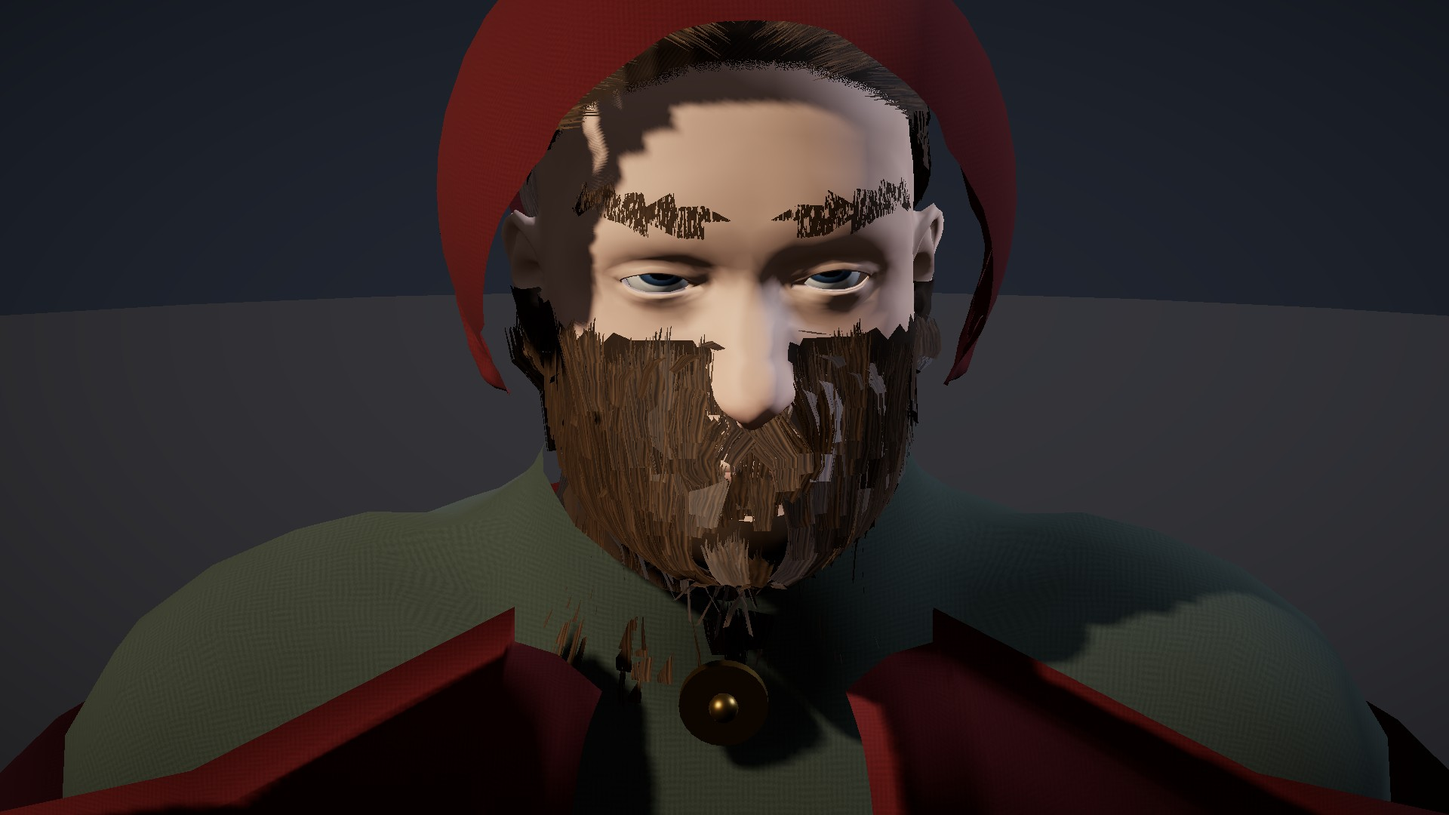
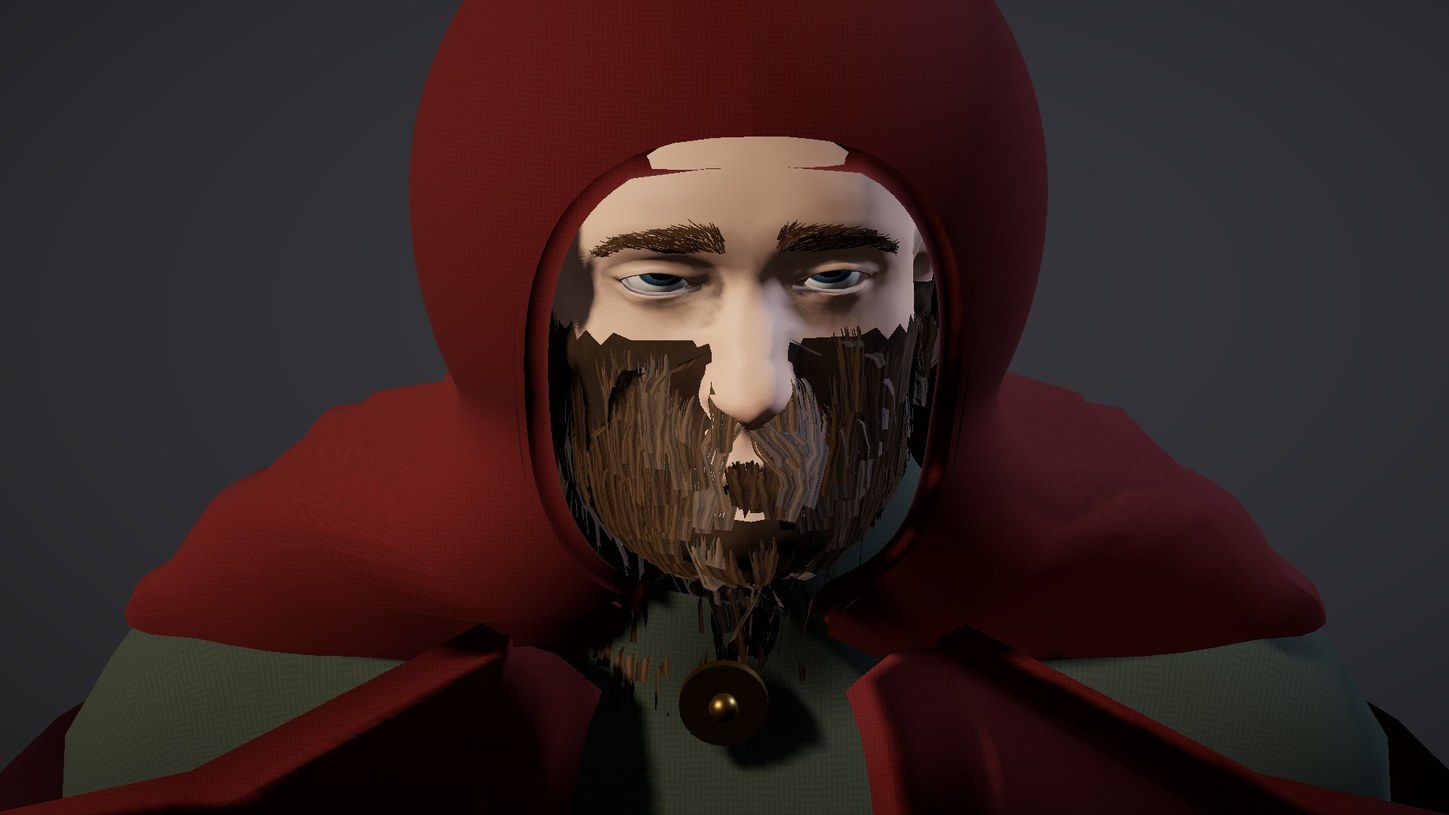
Carry the builder's state from auto/backlog (Sessions 823, 824, 826: the hood, the brows, brows by people) onto auto/bodies, which owns the builder since the 2.0 team
The files are byte-identical to origin/auto/backlog's, so the two branches merge cleanly.

Claude-Session: https://claude.ai/code/session_01DL4nJ7XktKf2P5WKDPzPBE

diff --git a/docs/prototypes/levelup/people.js b/docs/prototypes/levelup/people.js
@@ -36,7 +36,6 @@ export async function loadPack(base = 'mh/') {
     apron: sel(G['helper-skirt'], (x, y, z) => z > .015 && Math.abs(x) < .2 && y > -.6),
     apronBib: sel(tri, (x, y, z) => z > .03 && Math.abs(x) < .14 && y > .08 && y < .5),
     hood: sel(G['body'], (x, y, z) => y > .6 && !(z > .03 && (x / .06) ** 2 + ((y - .71) / .085) ** 2 < 1)),
-    brows: sel(G['body'], (x, y, z) => y > .748 && y < .757 && z > .1 && Math.abs(x) > .012 && Math.abs(x) < .055),
   };
   return PACK;
 }
@@ -64,8 +63,8 @@ function clothMat(color, kind = 'wool', o = {}) {
   const m = new THREE.MeshStandardMaterial({ color, roughness: o.rough ?? (kind === 'leather' ? .62 : .95), metalness: 0, side: o.side ?? THREE.FrontSide });
   m.onBeforeCompile = s => { s.uniforms.tW = { value: TEXW[kind] };
     s.vertexShader = 'attribute vec3 aBase; varying vec3 vB; varying vec3 vRP; varying vec3 vRN;\n' + s.vertexShader.replace('#include <begin_vertex>', '#include <begin_vertex>\n vRP = position; vRN = normal; vB = aBase;');
-    s.fragmentShader = 'uniform sampler2D tW; varying vec3 vB;\n' + TRI + s.fragmentShader.replace('vec4 diffuseColor = vec4( diffuse, opacity );', CUT(o.cut) + (o.hole ? `if (${o.hole}) discard;` : '') + `vec4 diffuseColor = vec4( diffuse * triTex(tW, ${(o.scale ?? (kind === 'leather' ? 9 : 22)).toFixed(1)}), opacity );`); };
-  m.customProgramCacheKey = () => 'cloth' + kind + JSON.stringify(o.cut || 0) + (o.scale || 0) + (o.hole || '');
+    s.fragmentShader = 'uniform sampler2D tW; varying vec3 vB;\n' + TRI + s.fragmentShader.replace('vec4 diffuseColor = vec4( diffuse, opacity );', CUT(o.cut) + (o.hole ? `if (${o.hole}) discard;` : '') + `vec4 diffuseColor = vec4( diffuse * triTex(tW, ${(o.scale ?? (kind === 'leather' ? 9 : 22)).toFixed(1)})${o.inner ? ` * (gl_FrontFacing ? 1. : ${o.inner.toFixed(2)})` : ''}, opacity );`); };
+  m.customProgramCacheKey = () => 'cloth' + kind + JSON.stringify(o.cut || 0) + (o.scale || 0) + (o.hole || '') + (o.inner || '');
   return m;
 }
 // fur and hair: stacked shells, each cut by noise so strands rise from the surface
@@ -354,8 +353,135 @@ function buildCloak(G, body, byName, rnd) {
   return { meshes: out, stats: { columns: K, rows: R, tris: idx.length / 3, minClear: +minClear.toFixed(4), under, brooch: +br.position.distanceTo(neck).toFixed(3) } };
 }
 
+// ── the hood up (Session 823, Michael's note on #274: "the hood is semi-transparent") ──
+// Session 805 set the head's own points out onto a ball: the face hole ran back to the ears, so the sides of the head
+// showed through it, the ear's folds came out as a red lump, and the ball stopped at the skull, the nape bare under it.
+// Now the hood is a cowl of its own: a dome round the head, the ears and the tucked hair, which falls to a hem lying on
+// the shoulders over the cloak. The face is cut out of it in front only, from the brow to the throat, edged with a
+// rolled hem, and its inside is shaded darker, so it reads as cloth with a thickness. It is skinned to the nearest
+// points of the body (the head's above, the neck's and shoulders' below), so it turns with the head.
+function buildHoodUp(P, G, meshes) {
+  const R0 = PACK.rest, body = PACK.G['body'], D = G.dress, pt = i => new THREE.Vector3(P[i * 3], P[i * 3 + 1], P[i * 3 + 2]);
+  const box = f => { const b = new THREE.Box3(); for (const i of new Set(body)) if (f(R0[i * 3], R0[i * 3 + 1], R0[i * 3 + 2])) b.expandByPoint(pt(i)); return b; };
+  const head = box((x, y) => y > .66), brow = box((x, y, z) => z > .1 && y > .74 && y < .76), chin = box((x, y, z) => z > .08 && y < .66 && y > .6 && Math.abs(x) < .02);
+  const neck = box((x, y) => y > .58 && y < .62 && Math.abs(x) < .08), sh = box((x, y) => Math.abs(x) > .14 && Math.abs(x) < .19 && y > .4 && y < .62);
+  const c = head.getCenter(new THREE.Vector3()), hs = head.getSize(new THREE.Vector3()).multiplyScalar(.5), cn = neck.getCenter(new THREE.Vector3());
+  // the dome's radii: round the ears at the sides, over the hair on top and behind, open in front of the face
+  let rx = hs.x + .028, ryT = hs.y + .03, rzB = c.z - head.min.z + .04, rzF = hs.z * .85, ryB = c.y - chin.min.y;
+  // and round the hair, wherever it is not in the face's opening
+  const hairM = meshes.filter(m => m.name === 'hair' || m.name === 'scalp');
+  const yTop = brow.max.y + .022, yChin = chin.min.y - .012, ox = brow.max.x + .02, yM = (yTop + yChin) / 2, hy = (yTop - yChin) / 2;
+  // where the face is open: an oval from the brow to under the chin, and a slot below it to the throat
+  const openS = q => { const u = Math.abs(q.x - c.x), y = q.y, sO = ((u / ox) ** 2.6 + (Math.abs(y - yM) / hy) ** 2.6) ** (1 / 2.6); return y < yM ? Math.min(sO, u / (ox * .5)) : sO; };
+  { let k = 1; const v = new THREE.Vector3(); for (const m of hairM) { const a = m.geometry.attributes.position; for (let i = 0; i < a.count; i++) { v.fromBufferAttribute(a, i); if (v.z > c.z && openS(v) < 1.15) continue; v.sub(c); if (v.y < -ryB * .6) continue; k = Math.max(k, Math.hypot(v.x / rx, v.y / (v.y > 0 ? ryT : ryB), v.z / (v.z > 0 ? rzF : rzB)) + .02); } }
+    k = Math.min(k, 1.35); rx *= k; ryT *= k; rzB *= k; }
+  // in front, over the brow and round the cheeks, the dome comes forward until the head's points that are not in the opening are inside it, 8 mm clear
+  for (const i of new Set(body)) { if (R0[i * 3 + 1] < .6) continue; const q = pt(i), d = q.clone().sub(c); if (d.z <= 0 || d.y < -ryB * .5 || openS(q) < 1) continue;
+    const rest = 1 - (d.x / rx) ** 2 - (d.y / (d.y > 0 ? ryT : ryB)) ** 2; rzF = Math.max(rzF, rest > .05 ? (d.z + .008) / Math.sqrt(rest) : rzF); }
+  // and what is still outside (a point at the side of the brow, the scalp's edge) widens the dome all round
+  { let k = 1; const v = new THREE.Vector3(), fit = q => { if (q.z > c.z && openS(q) < 1) return; const d = q.clone().sub(c); if (d.y < -ryB * .5) return; k = Math.max(k, Math.hypot(d.x / rx, d.y / (d.y > 0 ? ryT : ryB), d.z / (d.z > 0 ? rzF : rzB)) * 1.01); };
+    for (const i of new Set(body)) if (R0[i * 3 + 1] > .6) fit(pt(i)); for (const m of hairM) { const a = m.geometry.attributes.position; for (let i = 0; i < a.count; i++) fit(v.fromBufferAttribute(a, i)); }
+    rx *= k; ryT *= k; rzF *= k; rzB *= k; }
+  // the hem lies on the shoulders and the upper back: at each angle round the neck, the body's height there, and clear of the cloak
+  const J = 56, I = 64, th0 = 2.05, pos = [], base = [], uv = [], idx = [];
+  const hx = (sh.max.x - cn.x) * .82, hzB = cn.z - sh.min.z + .01, hzF = sh.max.z - cn.z, clr = D.mantle ? .095 : .04;
+  const yAt = (x, z) => { let y = -1e9; for (const i of new Set(body)) { const ry = R0[i * 3 + 1]; if (ry < .3 || ry > .62) continue; if ((P[i * 3] - x) ** 2 + (P[i * 3 + 2] - z) ** 2 < .022 ** 2) y = Math.max(y, P[i * 3 + 1]); } return y; };
+  const yHem0 = sh.max.y + clr;
+  // the grid: J columns round the head (0 = the front), I rows from the crown to the hem
+  const dome = (ph, th) => { const sx = Math.sin(th) * Math.sin(ph), sy = Math.cos(th), sz = Math.sin(th) * Math.cos(ph), peak = .025 * Math.max(0, -sz * .7 + sy * .7) ** 3;
+    return new THREE.Vector3(c.x + sx * rx, c.y + sy * (sy > 0 ? ryT : ryB) + peak * .6, c.z + sz * (sz > 0 ? rzF : rzB) - peak); };
+  const hemXZ = ph => [cn.x + Math.sin(ph) * hx, cn.z + Math.cos(ph) * (Math.cos(ph) > 0 ? hzF : hzB)];
+  let hy0 = []; for (let j = 0; j < J; j++) { const [x, z] = hemXZ(j / J * Math.PI * 2), y = yAt(x, z); hy0.push(y > -1e8 ? Math.min(y + clr, yHem0) : yHem0); }
+  for (let it = 0; it < 4; it++) hy0 = hy0.map((y, j) => (hy0[(j + J - 1) % J] + 2 * y + hy0[(j + 1) % J]) / 4);
+  const hem = (ph, j) => { const [x, z] = hemXZ(ph); return new THREE.Vector3(x, hy0[j % J], z); };
+  // behind, the hood leaves the dome sooner and falls down the nape, so it does not sit on the neck as a ball
+  const at = (ph, v, j) => { const vd = .62, t0 = th0 - .5 * Math.max(0, -Math.cos(ph)) ** 1.5; if (v <= vd) return dome(ph, t0 * Math.sqrt(v / vd));
+    const a = dome(ph, t0), b = hem(ph, j), t = (v - vd) / (1 - vd), L = a.distanceTo(b), Ta = dome(ph, t0 + .01).sub(a).normalize().multiplyScalar(L * .9), Tb = b.clone().sub(a);
+    return a.clone().multiplyScalar(2 * t ** 3 - 3 * t * t + 1).addScaledVector(Ta, t ** 3 - 2 * t * t + t).addScaledVector(b, -2 * t ** 3 + 3 * t * t).addScaledVector(Tb, t ** 3 - t * t); };
+  const front = (q, ph) => Math.cos(ph) > 0 && q.z > c.z;
+  for (let i = 0; i <= I; i++) for (let j = 0; j <= J; j++) { const ph = j / J * Math.PI * 2, q = at(ph, i / I, j); pos.push(q.x, q.y, q.z); base.push(front(q, ph) ? openS(q) : 9, 0, Math.cos(ph)); uv.push(j / J, i / I); }
+  for (let i = 0; i < I; i++) for (let j = 0; j < J; j++) { const a = i * (J + 1) + j, b = a + J + 1; idx.push(a, b, a + 1, a + 1, b, b + 1); }
+  const g = new THREE.BufferGeometry(); g.setAttribute('position', new THREE.Float32BufferAttribute(pos, 3)); g.setAttribute('aBase', new THREE.Float32BufferAttribute(base, 3)); g.setAttribute('uv', new THREE.Float32BufferAttribute(uv, 2)); g.setIndex(idx); g.computeVertexNormals();
+  // the rolled hem round the face: where each row crosses the opening's edge, up the left cheek and down the right
+  const left = [], right = []; for (let i = 0; i <= I; i++) { const row = []; for (let j = 0; j <= J; j++) { const k = (i * (J + 1) + j) * 3; row.push([base[k], new THREE.Vector3(pos[k], pos[k + 1], pos[k + 2])]); }
+    for (let j = 0; j < J; j++) { const [s0, p0] = row[j], [s1, p1] = row[j + 1]; if ((s0 < 1) !== (s1 < 1) && Math.min(s0, s1) < 9 && Math.max(s0, s1) < 9) { const q = p0.clone().lerp(p1, (1 - s0) / (s1 - s0)); (q.x > c.x ? right : left).push(q); } } }
+  const rimLine = [...left.reverse(), ...right].map(q => q.clone().add(new THREE.Vector3(c.x - q.x, 0, c.z - q.z).normalize().multiplyScalar(.004)));
+  const sm = rimLine.map((q, k) => k && k < rimLine.length - 1 ? q.clone().add(rimLine[k - 1]).add(rimLine[k + 1]).multiplyScalar(1 / 3) : q);
+  const rim = tubeGeom(sm, sm.map(() => .0075), 8);
+  // skin weights from the nearest point of the body
+  const cand = [...new Set(body)].filter(i => R0[i * 3 + 1] > .4);
+  const skin = geo => { const n = geo.attributes.position.count, si = new Uint16Array(n * 4), sw = new Float32Array(n * 4), v = new THREE.Vector3();
+    for (let i = 0; i < n; i++) { v.fromBufferAttribute(geo.attributes.position, i); let best = -1, bd = 1e9; for (const k of cand) { const d = (P[k * 3] - v.x) ** 2 + (P[k * 3 + 1] - v.y) ** 2 + (P[k * 3 + 2] - v.z) ** 2; if (d < bd) { bd = d; best = k; } }
+      for (let q = 0; q < 4; q++) { si[i * 4 + q] = PACK.skinIndex[best * 4 + q]; sw[i * 4 + q] = PACK.skinWeight[best * 4 + q]; } }
+    geo.setAttribute('skinIndex', new THREE.BufferAttribute(si, 4)); geo.setAttribute('skinWeight', new THREE.BufferAttribute(sw, 4)); return geo; };
+  if (!rim.attributes.aBase) rim.setAttribute('aBase', rim.attributes.position);
+  const col = sRGB(...D.cloak), hood = new THREE.SkinnedMesh(skin(g), clothMat(col, 'wool', { side: THREE.DoubleSide, scale: 26, inner: .42, hole: 'vB.z > 0. && vB.x < 1.' })); hood.name = 'hoodUp';
+  const hemM = new THREE.SkinnedMesh(skin(rim), clothMat(col.clone().multiplyScalar(.9), 'wool', { scale: 26 })); hemM.name = 'hoodHem';
+  // what would show through: any point of the head, the ears or the scalp's hair outside the dome, away from the face's opening
+  let tested = 0, poke = 0; { const v = new THREE.Vector3(), test = q => { if (q.y < c.y - ryB * .5) return; tested++; if (q.z > c.z && openS(q) < 1) return;
+      const d = q.clone().sub(c); if (Math.hypot(d.x / rx, d.y / (d.y > 0 ? ryT : ryB), d.z / (d.z > 0 ? rzF : rzB)) >= 1) poke++; };
+    for (const i of new Set(body)) if (R0[i * 3 + 1] > .6) test(pt(i)); for (const m of hairM) { const a = m.geometry.attributes.position; for (let i = 0; i < a.count; i++) test(v.fromBufferAttribute(a, i)); } }
+  return { meshes: [hood, hemM], stats: { tested, poke, tris: idx.length / 3 + rim.index.count / 3, rimPoints: sm.length, k: +(rx / (hs.x + .028)).toFixed(3), yHem: +yHem0.toFixed(3) } };
+}
+
+// ── the eyebrows (Session 824, Michael's note on #272: "eyebrows look pretty fugly still") ──
+// Session 770's brows were a band of the skin's triangles under three noise shells: square-ended blocks, the same
+// thickness end to end, a hand's width too high. Now a brow is drawn on the face as a shape (a head at the nose, an
+// arch two-thirds out, a tail that thins to nothing), set from the eye's own centre, and filled with short hairs
+// lying on the skin, combed as brows grow: up at the head, out along the body, out and down at the tail. The skin
+// under it is a shade darker so the hairs read as a brow and not as a scatter. Placed on the unmorphed face and carried
+// to the morphed one by the triangle each root falls in, so it follows every face the sliders make.
+const BROW_TRIS = () => PACK.browTris || (PACK.browTris = (() => { const R0 = PACK.rest, g = PACK.G['body'], out = [];
+  for (let t = 0; t < g.length; t += 3) { const a = g[t], b = g[t + 1], c = g[t + 2], cy = (R0[a * 3 + 1] + R0[b * 3 + 1] + R0[c * 3 + 1]) / 3, cz = (R0[a * 3 + 2] + R0[b * 3 + 2] + R0[c * 3 + 2]) / 3, cx = (R0[a * 3] + R0[b * 3] + R0[c * 3]) / 3;
+    if (cy < .72 || cy > .79 || cz < .06 || Math.abs(cx) > .085) continue;
+    const ux = R0[b * 3] - R0[a * 3], uy = R0[b * 3 + 1] - R0[a * 3 + 1], uz = R0[b * 3 + 2] - R0[a * 3 + 2], vx = R0[c * 3] - R0[a * 3], vy = R0[c * 3 + 1] - R0[a * 3 + 1], vz = R0[c * 3 + 2] - R0[a * 3 + 2];
+    const nz = ux * vy - uy * vx, nl = Math.hypot(uy * vz - uz * vy, uz * vx - ux * vz, nz); if (Math.abs(nz) / nl > .25) out.push(a, b, c); } return out; })());
+export function browShape(G) {
+  // in the unmorphed face's x and y: per side, t from the head (0) to the tail (1)
+  const R0 = PACK.rest, eye = side => { const L = [...new Set(PACK.G[`helper-${side}-eye`])]; let x = 0, y = 0; for (const i of L) { x += R0[i * 3]; y += R0[i * 3 + 1]; } return [Math.abs(x / L.length), y / L.length]; };
+  const [ex, ey] = eye('l'), man = (G.g ?? .5) > .5, b = G.brow || {}, thick = (b.thick ?? (man ? .62 : .42)), arch = (b.arch ?? (man ? .35 : .6));
+  const x0 = ex * .32, x1 = ex * 1.62, at = t => { const x = x0 + (x1 - x0) * t;
+    // the lower edge follows the orbit's rim: it rises from the head to the arch and drops a little to the tail
+    const low = ey + .0125 + .0035 * arch * Math.sin(Math.PI * Math.min(1, t / .7) * .5) - .004 * Math.max(0, (t - .7) / .3) ** 1.5 * (1 + arch);
+    const h = (.0035 + .0065 * thick) * (t < .15 ? .75 + 1.7 * t : 1 - .85 * Math.max(0, (t - .3) / .7) ** 1.3);
+    return { x, low, h }; };
+  return { x0, x1, at, ex, ey, thick, arch };
+}
+function buildBrows(P, G, headB) {
+  const R0 = PACK.rest, tris = BROW_TRIS(), S = browShape(G), out = { tried: 0, roots: 0, lift: 0 };
+  // where a point of the unmorphed face (x, y) lies: its triangle and weights, then the same on the morphed face
+  const locate = (x, y) => { for (let t = 0; t < tris.length; t += 3) { const a = tris[t], b = tris[t + 1], c = tris[t + 2], ax = R0[a * 3], ay = R0[a * 3 + 1], bx = R0[b * 3], by = R0[b * 3 + 1], cx = R0[c * 3], cy = R0[c * 3 + 1];
+      const d = (by - cy) * (ax - cx) + (cx - bx) * (ay - cy); if (Math.abs(d) < 1e-12) continue; const u = ((by - cy) * (x - cx) + (cx - bx) * (y - cy)) / d, v = ((cy - ay) * (x - cx) + (ax - cx) * (y - cy)) / d, w = 1 - u - v;
+      if (u < -1e-4 || v < -1e-4 || w < -1e-4) continue; const A = new THREE.Vector3().fromArray(P, a * 3), B = new THREE.Vector3().fromArray(P, b * 3), C = new THREE.Vector3().fromArray(P, c * 3);
+      return { p: A.clone().multiplyScalar(u).addScaledVector(B, v).addScaledVector(C, w), n: B.clone().sub(A).cross(C.clone().sub(A)).normalize() }; } return null; };
+  const pos = [], uv = [], idx = [], nor = [], col = sRGB(...G.hairCol).multiplyScalar(G.hairCol[0] > .6 ? .55 : .62);
+  const N = Math.round(260 + 220 * S.thick);
+  for (const sg of [-1, 1]) for (let k = 0; k < N; k++) {
+    // a root: along the brow by area (more at the head and the body than the tail), across it at random
+    const t = Math.min(1, RND() ** 1.15), q = S.at(t), a = RND(), x = q.x + (RND() - .5) * .002, y = q.low + q.h * a;
+    const L = locate(sg * x, y); out.tried++; if (!L) continue; out.roots++;
+    if (L.n.z < 0) L.n.negate();
+    // the comb: up at the head, out and a little up along the body, out and down at the tail; the upper row lies down over the lower
+    const up = t < .18 ? .95 - 2.8 * t : .45 - 1.1 * Math.max(0, t - .45) - .35 * a, dirW = new THREE.Vector3(sg * (t < .18 ? .35 + 3 * t : 1), up, 0).normalize();
+    dirW.applyAxisAngle(new THREE.Vector3(0, 0, 1), (RND() - .5) * .45);
+    const tan = dirW.clone().addScaledVector(L.n, -dirW.dot(L.n)).normalize(), len = (.004 + .005 * RND()) * (t < .15 ? .75 : 1), w0 = .00028 + .00018 * RND(), seg = 3;
+    const pts = [L.p.clone().addScaledVector(L.n, .0003)]; let lift = .28;
+    for (let s = 1; s <= seg; s++) { const d = tan.clone().addScaledVector(L.n, lift).normalize(); pts.push(pts[s - 1].clone().addScaledVector(d, len / seg)); lift -= .22; }
+    out.lift = Math.max(out.lift, pts[seg].clone().sub(pts[0]).dot(L.n));
+    const base = pos.length / 3; for (let s = 0; s <= seg; s++) { const side = tan.clone().cross(L.n).normalize(), w = w0 * (1 - .6 * s / seg);
+      pos.push(pts[s].x - side.x * w, pts[s].y - side.y * w, pts[s].z - side.z * w, pts[s].x + side.x * w, pts[s].y + side.y * w, pts[s].z + side.z * w); nor.push(L.n.x, L.n.y, L.n.z, L.n.x, L.n.y, L.n.z); uv.push(0, s / seg * .9, 1, s / seg * .9); if (s < seg) { const b0 = base + s * 2; idx.push(b0, b0 + 1, b0 + 2, b0 + 1, b0 + 3, b0 + 2); } } }
+  const g = new THREE.BufferGeometry(); g.setAttribute('position', new THREE.Float32BufferAttribute(pos, 3)); g.setAttribute('uv', new THREE.Float32BufferAttribute(uv, 2)); g.setAttribute('normal', new THREE.Float32BufferAttribute(nor, 3)); g.setIndex(idx);
+  const nV = pos.length / 3, si = new Uint16Array(nV * 4), sw = new Float32Array(nV * 4); for (let i = 0; i < nV; i++) { si[i * 4] = headB; sw[i * 4] = 1; } g.setAttribute('skinIndex', new THREE.BufferAttribute(si, 4)); g.setAttribute('skinWeight', new THREE.BufferAttribute(sw, 4));
+  const m = new THREE.MeshStandardMaterial({ color: col, roughness: .7, side: THREE.DoubleSide }); m.onBeforeCompile = sh => { sh.fragmentShader = sh.fragmentShader.replace('#include <normal_fragment_begin>', '#include <normal_fragment_begin>\n normal = normalize(vNormal); if (dot(normal, vViewPosition) < 0.) normal = -normal;'); };
+  const mesh = new THREE.SkinnedMesh(g, m); mesh.name = 'brows'; mesh.noCast = true;
+  return { mesh, stats: { hairs: idx.length / 18, tried: out.tried, roots: out.roots, lift: +out.lift.toFixed(4), tris: idx.length / 3 } };
+}
+// how much of a brow lies over a point of the unmorphed face (0 to 1), for the skin's shade
+function browCover(S, x, y) { const ax = Math.abs(x); if (ax < S.x0 - .003 || ax > S.x1 + .003) return 0; const t = Math.max(0, Math.min(1, (ax - S.x0) / (S.x1 - S.x0))), q = S.at(t);
+  const m = Math.min(y - q.low, q.low + q.h - y), e = Math.min(ax - S.x0, S.x1 - ax); return Math.max(0, Math.min(1, (m + .0015) / .003)) * Math.max(0, Math.min(1, (e + .002) / .004)); }
+
 export function makePerson(G, o = {}) {
-  const P = morph(G), { ix } = PACK, rest0 = PACK.rest; RND = seeded(G.seed ?? 'person'); let hairStats = null;
+  const P = morph(G), { ix } = PACK, rest0 = PACK.rest; RND = seeded(G.seed ?? 'person'); let hairStats = null, hoodStats = null, browStats = null;
   // the feet on the ground
   let minY = 1e9; for (let i = 1; i < P.length; i += 3) if (P[i] < minY) minY = P[i];
   // the skeleton, its joints read off the morphed body
@@ -366,9 +492,10 @@ export function makePerson(G, o = {}) {
   const skeleton = new THREE.Skeleton(bones), root = new THREE.Group(), meshes = [];
   const D0 = G.dress || {}, body = new THREE.SkinnedMesh(geomFor(P, D0.tunic ? (D0.trousers || D0.skirt === 'long' ? PACK.R.bare : PACK.R.bareLegs) : PACK.G.body), skinMat(sRGB(...G.skin)));
   // skin tones by region: lips and cheeks warmer, the brow a touch darker
-  { const col = new Float32Array(PACK.N * 3); for (let i = 0; i < PACK.N; i++) { const x = rest0[i * 3], y = rest0[i * 3 + 1], z = rest0[i * 3 + 2]; let r = 1, g = 1, b = 1;
+  { const col = new Float32Array(PACK.N * 3), BS = browShape(G); for (let i = 0; i < PACK.N; i++) { const x = rest0[i * 3], y = rest0[i * 3 + 1], z = rest0[i * 3 + 2]; let r = 1, g = 1, b = 1;
       const lip = Math.exp(-((x / .022) ** 2) - ((y - .655) / .009) ** 2) * (z > .13 ? 1 : 0), cheek = Math.exp(-(((Math.abs(x) - .05) / .025) ** 2) - ((y - .69) / .02) ** 2) * (z > .07 ? 1 : 0), nose = Math.exp(-((x / .02) ** 2) - ((y - .69) / .015) ** 2) * (z > .14 ? 1 : 0);
-      r += .12 * lip + .06 * cheek + .05 * nose; g -= .14 * lip + .05 * cheek + .04 * nose; b -= .1 * lip + .04 * cheek + .03 * nose; col[i * 3] = r; col[i * 3 + 1] = g; col[i * 3 + 2] = b; }
+      r += .12 * lip + .06 * cheek + .05 * nose; g -= .14 * lip + .05 * cheek + .04 * nose; b -= .1 * lip + .04 * cheek + .03 * nose;
+      if (G.hairCol && z > .08 && y > .72 && y < .79) { const w = browCover(BS, x, y) * .2; r *= 1 - w; g *= 1 - w * 1.1; b *= 1 - w * 1.2; } col[i * 3] = r; col[i * 3 + 1] = g; col[i * 3 + 2] = b; }
     body.geometry.setAttribute('color', new THREE.BufferAttribute(col, 3)); }
   meshes.push(body);
   const D = G.dress || {}, push = (k, idx, mat, d) => { const m = new THREE.SkinnedMesh(geomFor(P, idx, d), mat); m.name = k; meshes.push(m); return m; };
@@ -380,25 +507,23 @@ export function makePerson(G, o = {}) {
   if (D.cuffs) push('cuffs', PACK.R.cuffs, clothMat(sRGB(...D.cuffs), 'wool', { cut: [-2, 2, .4] }), .02);
   if (D.apron) { const lea = !!D.apronLeather, am = clothMat(sRGB(...D.apron), lea ? 'leather' : 'wool', { side: THREE.DoubleSide, cut: [lea ? -.52 : -.42, .175, .155, .004] });
     push('apron', PACK.R.apron, am, (x, y) => .03 + .012 * Math.max(0, Math.min(1, (.1 - y) / .4))); if (D.bib) push('bib', PACK.R.apronBib, clothMat(sRGB(...D.apron), lea ? 'leather' : 'wool', { side: THREE.DoubleSide, cut: [.1, .46, .105, .003] }), .04); }
-  if (D.cloak && D.hood === 'up') { // a hood: the head's points set out onto a smooth shell round the head and hair, falling to the shoulders
-    const idx = PACK.R.hood, bb = new THREE.Box3(), v = new THREE.Vector3(); for (const i of idx) if (rest0[i * 3 + 1] > .66) bb.expandByPoint(v.fromArray(P, i * 3)); const c = bb.getCenter(new THREE.Vector3()), r = bb.getSize(new THREE.Vector3()).multiplyScalar(.5).addScalar(.03); c.z -= .01; r.z += .02;
-    const g = geomFor(P, idx), pos = g.attributes.position.array, used = new Set(idx);
-    for (const i of used) { const d = v.fromArray(P, i * 3).sub(c), len = d.length(), u = d.clone().divideScalar(len), re = 1 / Math.hypot(u.x / r.x, u.y / r.y, u.z / r.z), out = c.clone().addScaledVector(u, Math.max(len + .03, re)); pos[i * 3] = out.x; pos[i * 3 + 1] = out.y; pos[i * 3 + 2] = out.z; }
-    g.computeVertexNormals(); const m = new THREE.SkinnedMesh(g, clothMat(sRGB(...D.cloak), 'wool', { side: THREE.DoubleSide, scale: 26, hole: '(vB.z > -.005 && pow(vB.x / .07, 2.) + pow((vB.y - .705) / .1, 2.) < 1.) || (vB.z > .02 && vB.y < .66)' })); m.name = 'hoodUp'; meshes.push(m); }
   // a fur mantle over the shoulders: eleven shells
   if (D.mantle) for (let k = 0; k < 11; k++) push('mantle' + k, PACK.R.mantle, shellMat(sRGB(...D.mantle), k, 11, { sx: 260, sy: 70, solid: k === 0 }), .036 + k * .0055);
   // hair: cards rooted on the hair shell (off the face), a layer of shell underneath so no scalp shows; brows; beard and moustache as short cards
   if (G.hairCol) { const scalp = PACK.R.scalpRoots;
     push('scalp', scalp, shellMat(sRGB(...G.hairCol).multiplyScalar(.55), 0, 3, { solid: true, hairline: true }), .0025);
     const headB = ix.bones.findIndex(b => b.name === 'head'), bb = new THREE.Box3(); for (const v of scalp) bb.expandByPoint(new THREE.Vector3(P[v * 3], P[v * 3 + 1], P[v * 3 + 2])); const hc = bb.getCenter(new THREE.Vector3()), hr = bb.getSize(new THREE.Vector3()).multiplyScalar(.5).addScalar(.004); hc.y -= .02; hr.y += .02;
-    const H = buildHair(P, G, heads, PACK.R.scalpRoots, headB, RND); meshes.push(...H.meshes); hairStats = H.stats;
-    for (let k = 0; k < 3; k++) push('brows' + k, PACK.R.brows, shellMat(sRGB(...G.hairCol).multiplyScalar(.5), k + 2, 5, { sx: 1400, sy: 300, solid: false }), .0015 + k * .0012);
+    const tuck = D.cloak && D.hood === 'up' ? { ...G, hair: { style: 'short', len: Math.min(G.hair?.len ?? .3, .3) } } : G;
+    // under a hood the hair is tucked in: only the scalp's shell, which shows at the hairline
+    const H = buildHair(P, tuck, heads, PACK.R.scalpRoots, headB, RND); meshes.push(...H.meshes.filter(m => tuck === G || m.name !== 'hair')); hairStats = H.stats;
+    { const B = buildBrows(P, G, headB); meshes.push(B.mesh); browStats = B.stats; }
     if (G.beard) { const jawB = ix.bones.findIndex(b => b.name === 'jaw');
       push('beardBase', PACK.R.beard, shellMat(sRGB(...G.hairCol).multiplyScalar(.6), 0, 3, { solid: true }), .0015);
       const bc = hairCards(P, PACK.R.beard, { n: 520, len: .02 + .05 * G.beard, seg: 4, width: .011, lift: .15, comb: -.1, fall: 1, grav: .2, rootOff: .002, bone: jawB, color: sRGB(...G.hairCol).multiplyScalar(.92), outward: hc, hug: true, surfs: [surfaceOf(P, PACK.R.beard, hc)] });
       bc.name = 'beard'; meshes.push(bc);
       const mc = hairCards(P, PACK.R.moust, { n: 110, len: .028, seg: 3, width: .009, lift: .2, comb: -.1, fall: 1, grav: .2, rootOff: .002, bone: headB, color: sRGB(...G.hairCol).multiplyScalar(.92), outward: hc });
       mc.name = 'moust'; meshes.push(mc); } }
+  if (D.cloak && D.hood === 'up') { const H = buildHoodUp(P, G, meshes); meshes.push(...H.meshes); hoodStats = H.stats; }
   root.add(bones[0]); root.updateMatrixWorld(true);
   for (const m of meshes) { root.add(m); m.updateMatrixWorld(true); m.bind(skeleton); m.castShadow = !m.noCast; m.receiveShadow = true; m.frustumCulled = false; }
   // eyes: a white ball with an iris, set in the helper's sockets, carried by the head
@@ -416,7 +541,7 @@ export function makePerson(G, o = {}) {
   byName['head'].quaternion.copy(q(.04, pose.head, 0)); if (byName['jaw']) byName['jaw'].quaternion.copy(q(pose.jaw ?? -.12, 0, 0)); byName['spine05'].quaternion.copy(q(0, 0, pose.hip));
   for (const side of ['L', 'R']) { const sg = side === 'L' ? -1 : 1; for (let f = 2; f <= 5; f++) for (let j = 1; j <= 3; j++) { const b = byName[`finger${f}-${j}.${side}`]; if (b) b.quaternion.copy(q(0, 0, sg * (.25 + .12 * j))); } }
   let cloakStats = null; if (D.cloak) { root.updateMatrixWorld(true); const C = buildCloak(G, body, byName, RND); for (const m of C.meshes) root.add(m); cloakStats = C.stats; }
-  root.position.y = -minY; return { root, skeleton, byName, meshes, hair: hairStats, cloak: cloakStats };
+  root.position.y = -minY; return { root, skeleton, byName, meshes, hair: hairStats, cloak: cloakStats, hood: hoodStats, brows: browStats };
 }
 
 // palettes from OG-025: undyed wool, browns, slate blue, madder red; furs; ash-blond to red hair; pale to weathered skin
@@ -444,14 +569,14 @@ export function toSaved(G) {
   const D = G.dress || {}, dress = {}; for (const k of GARMENTS) if (D[k]) dress[k] = hex(D[k]); dress.skirt = D.skirt || null; for (const [k, d] of Object.entries(DRESS_FLAGS)) if (D[k] != null && D[k] !== d) dress[k] = typeof D[k] === 'number' ? r3(D[k]) : D[k];
   const style = G.hair?.style ?? ((G.hairLen ?? .3) < .45 ? 'short' : 'loose');
   return { species: 'human', v: 1, seed: String(G.seed ?? 'person'), people: G.people || 'markman', sliders: round({ ...Object.fromEntries(BODY_SLIDERS.map(k => [k, G[k] ?? (k === 'prop' ? .6 : .5)])), ...(G.face || {}) }),
-    race: round(G.race || { caucasian: 1 }), palette: { skin: hex(G.skin), hair: hex(G.hairCol || [0, 0, 0]), eyes: hex(G.eyes) }, hair: { style, len: r3(G.hair?.len ?? G.hairLen ?? .3), beard: r3(G.beard || 0) },
+    race: round(G.race || { caucasian: 1 }), palette: { skin: hex(G.skin), hair: hex(G.hairCol || [0, 0, 0]), eyes: hex(G.eyes) }, hair: { style, len: r3(G.hair?.len ?? G.hairLen ?? .3), beard: r3(G.beard || 0), ...(G.brow ? { brow: [r3(G.brow.thick), r3(G.brow.arch)] } : {}) },
     dress, pose: round(G.pose || {}) };
 }
 export function fromSaved(J) {
   if (!J || J.species !== 'human') throw new Error('not a human genome'); const S = J.sliders || {}, G = { seed: J.seed, people: J.people, race: { ...(J.race || { caucasian: 1 }) }, face: {} };
   for (const [k, v] of Object.entries(S)) if (BODY_SLIDERS.includes(k)) G[k] = v; else G.face[k] = v;
   G.skin = unhex(J.palette.skin); G.hairCol = unhex(J.palette.hair); G.eyes = unhex(J.palette.eyes);
-  G.hair = { style: J.hair?.style || 'short', len: J.hair?.len ?? .3 }; G.beard = J.hair?.beard || 0;
+  G.hair = { style: J.hair?.style || 'short', len: J.hair?.len ?? .3 }; G.beard = J.hair?.beard || 0; if (J.hair?.brow) G.brow = { thick: J.hair.brow[0], arch: J.hair.brow[1] };
   G.dress = { skirt: J.dress?.skirt || null }; for (const [k, d] of Object.entries(DRESS_FLAGS)) G.dress[k] = J.dress?.[k] ?? d; for (const k of GARMENTS) if (J.dress?.[k]) G.dress[k] = unhex(J.dress[k]); G.pose = { ...(J.pose || {}) }; return G;
 }
 // ── the four peoples (Session 806, B3): slider ranges over the one human body, from the canon's peoples table (§2) and the
@@ -464,22 +589,22 @@ export const PEOPLES = {
     body: { m: { metres: [1.72, 1.84], muscle: [.52, .7], weight: [.36, .52] }, f: { metres: [1.6, 1.72], muscle: [.45, .6], weight: [.38, .54] } },
     skin: [[.9, .74, .64], [.88, .69, .58], [.86, .64, .54], [.92, .77, .69]], hair: [[.62, .3, .14], [.5, .22, .1], [.72, .38, .18], [.25, .17, .12], [.36, .24, .15]], eyes: [[.42, .55, .4], [.4, .52, .62], [.38, .3, .2]],
     styles: { m: { short: 6, tail: 2 }, f: { braid: 3, tail: 2, bun: 2, loose: 2 } },
-    wool: [[.45, .16, .12], [.3, .36, .22], [.55, .42, .2], [.2, .3, .4], [.62, .58, .5]], cloak: .65, hood: .5, brooch: [.62, .47, .22], apron: [.35, .3], mantle: 0 },
+    wool: [[.45, .16, .12], [.3, .36, .22], [.55, .42, .2], [.2, .3, .4], [.62, .58, .5]], cloak: .65, hood: .5, brooch: [.62, .47, .22], apron: [.35, .3], mantle: 0, brow: { m: { thick: [.5, .75], arch: [.3, .5] }, f: { thick: [.35, .55], arch: [.5, .75] } } },
   markman: { name: 'Markmen', race: { caucasian: [1, 1], african: [0, 0], asian: [0, 0] },
     body: { m: { metres: [1.84, 1.98], muscle: [.66, .92], weight: [.48, .7] }, f: { metres: [1.72, 1.84], muscle: [.52, .7], weight: [.46, .64] } },
     skin: [[.92, .8, .74], [.9, .77, .7], [.88, .74, .66]], hair: [[.8, .72, .56], [.72, .64, .5], [.86, .8, .66], [.62, .54, .42]], eyes: [[.55, .6, .62], [.5, .56, .6], [.45, .55, .62]],
     styles: { m: { short: 5, braids: 2, tail: 2 }, f: { braids: 4, braid: 3, bun: 1 } },
-    wool: [[.32, .26, .2], [.24, .27, .32], [.3, .32, .26], [.2, .2, .22], [.45, .16, .12]], cloak: .3, fur: true, brooch: [.35, .35, .37], apron: [.15, .1], mantle: .8 },
+    wool: [[.32, .26, .2], [.24, .27, .32], [.3, .32, .26], [.2, .2, .22], [.45, .16, .12]], cloak: .3, fur: true, brooch: [.35, .35, .37], apron: [.15, .1], mantle: .8, brow: { m: { thick: [.7, .95], arch: [.15, .35] }, f: { thick: [.45, .65], arch: [.35, .55] } } },
   aurennais: { name: 'Aurennais', race: { caucasian: [.3, .65], african: [.25, .7], asian: [0, .15] },
     body: { m: { metres: [1.74, 1.86], muscle: [.5, .66], weight: [.32, .46] }, f: { metres: [1.62, 1.74], muscle: [.42, .56], weight: [.34, .48] } },
     skin: [[.74, .56, .42], [.64, .46, .33], [.52, .36, .25], [.4, .27, .19], [.31, .21, .15]], hair: [[.1, .07, .06], [.16, .11, .08], [.22, .15, .1]], eyes: [[.3, .2, .12], [.22, .15, .1], [.35, .28, .16]],
     styles: { m: { short: 7, tail: 1 }, f: { braids: 3, braid: 2, bun: 3, loose: 1 } },
-    wool: [[.86, .81, .71], [.9, .86, .78], [.25, .35, .55], [.74, .55, .25], [.8, .78, .74]], cloak: .1, brooch: [.7, .55, .25], apron: [.1, 0], mantle: 0 },
+    wool: [[.86, .81, .71], [.9, .86, .78], [.25, .35, .55], [.74, .55, .25], [.8, .78, .74]], cloak: .1, brooch: [.7, .55, .25], apron: [.1, 0], mantle: 0, brow: { m: { thick: [.6, .85], arch: [.4, .6] }, f: { thick: [.45, .65], arch: [.6, .85] } } },
   oldblood: { name: 'the Old Blood', race: { caucasian: [.75, .95], african: [0, .05], asian: [.05, .25] },
     body: { m: { metres: [1.56, 1.66], muscle: [.4, .54], weight: [.28, .4] }, f: { metres: [1.46, 1.56], muscle: [.36, .5], weight: [.3, .42] } },
     skin: [[.82, .78, .76], [.78, .74, .72], [.85, .81, .79]], hair: [[.05, .05, .06], [.08, .07, .08], [.11, .1, .11]], eyes: [[.66, .68, .7], [.58, .6, .63]],
     styles: { m: { short: 5, tail: 3 }, f: { loose: 3, braid: 3, tail: 2 } },
-    wool: [[.18, .17, .2], [.3, .12, .12], [.28, .22, .32], [.82, .8, .74], [.36, .34, .33]], cloak: .5, hood: .2, brooch: [.4, .4, .42], apron: [0, 0], mantle: 0 },
+    wool: [[.18, .17, .2], [.3, .12, .12], [.28, .22, .32], [.82, .8, .74], [.36, .34, .33]], cloak: .5, hood: .2, brooch: [.4, .4, .42], apron: [0, 0], mantle: 0, brow: { m: { thick: [.3, .5], arch: [.1, .3] }, f: { thick: [.2, .4], arch: [.2, .4] } } },
 };
 // standing height in metres of a genome's body (crown to sole, unposed), and the height slider that gives a wanted stature
 export function statureOf(G) { const P = morph(G), tri = PACK.G['body']; let lo = 1e9, hi = -1e9; for (let t = 0; t < tri.length; t++) { const y = P[tri[t] * 3 + 1]; if (y < lo) lo = y; if (y > hi) hi = y; } return hi - lo; }
@@ -495,6 +620,8 @@ export function peopleGenome(rnd, people, g, o = {}) {
   if (rnd() < P.cloak) { D.cloak = pick(P.wool.slice(0, 4)); D.cloakLen = .45 + rnd() * .5; D.brooch = P.brooch; if (P.fur && rnd() < .7) D.cloakFur = [.5, .42, .32]; else if (rnd() < (P.hood ?? 0) + .4) D.hood = rnd() < (P.hood ?? 0) ? 'up' : 'down'; }
   G.height = heightFor(G, in_(P.body[sx].metres));
   if (rnd() < P.apron[sx === 'f' ? 0 : 1]) { D.apron = g > .5 ? [.36, .25, .16] : pick([[.8, .76, .66], [.72, .68, .58]]); D.apronLeather = g > .5; D.bib = rnd() < .6; }
+  // the brows by people (Session 826), drawn last so every earlier roll of a seed is as it was
+  if (P.brow) G.brow = { thick: in_(P.brow[sx].thick), arch: in_(P.brow[sx].arch) };
   return G;
 }
 // a genome rolled from a seed, inside a people's ranges (Markfolk by default, as Session 804 rolled them)

diff --git a/docs/prototypes/levelup/builder.js b/docs/prototypes/levelup/builder.js
@@ -34,7 +34,7 @@ const rollPerson = s => rollGenome(s, { g: Q.get('sex') === 'f' ? 0 : Q.get('sex
 let SP = 'human', G = null, CG = null, C = null;
 if (Q.get('g')) ({ species: SP, G } = readGenome(b64.dec(Q.get('g'))));
 else if (PLANS[Q.get('plan')]) { SP = 'creature'; G = cGenome(Q.get('plan'), Q.get('seed') || Q.get('plan') + ':builder'); }
-else G = rollPerson(Q.get('seed') || 'builder');
+else if (!Q.get('people')) G = rollPerson(Q.get('seed') || 'builder');
 if (SP === 'creature') { CG = G; G = null; }
 const locks = new Set();
 let person = null, view = Q.get('view') || (SP === 'creature' ? 'side' : 'full'), turn = Q.has('turn') ? +Q.get('turn') : 0, zoom = 1, dirty = true, gait = null;
@@ -124,6 +124,7 @@ function buildPanel() {
   h2('Hair'); { const st = el('select', {}, ...HAIR_STYLES.map(s => el('option', { value: s, textContent: s }))); st.value = G.hair?.style || 'short'; st.onchange = () => { G.hair = { ...(G.hair || {}), style: st.value }; schedule(); };
     panel.append(el('div', { className: 'crow' }, el('label', { textContent: 'style' }), st, el('span'))); inputs.style = () => st.value = G.hair?.style || 'short'; }
   slider('length', () => G.hair?.len ?? .3, v => G.hair = { ...(G.hair || {}), len: v }, 0, 1, 'hairLen'); slider('beard', () => G.beard || 0, v => G.beard = v, 0, 1, 'beard');
+  slider('brows', () => G.brow?.thick ?? ((G.g ?? .5) > .5 ? .62 : .42), v => G.brow = { arch: (G.g ?? .5) > .5 ? .35 : .6, ...(G.brow || {}), thick: v }, 0, 1, 'browThick'); slider('brow arch', () => G.brow?.arch ?? ((G.g ?? .5) > .5 ? .35 : .6), v => G.brow = { thick: (G.g ?? .5) > .5 ? .62 : .42, ...(G.brow || {}), arch: v }, 0, 1, 'browArch');
   h2('Dress'); const D = () => G.dress = G.dress || {};
   for (const k of GARMENTS) { const on = el('input', { type: 'checkbox', checked: !!D()[k], title: 'wear it' }); let last = D()[k] || [.3, .25, .2];
     on.onchange = () => { if (on.checked) D()[k] = last; else { last = D()[k] || last; D()[k] = null; } schedule(); }; on.sync = () => on.checked = !!D()[k];
@@ -188,7 +189,8 @@ function peoplesSheet() {
     p.root.position.x = (i++ - (n - 1) / 2) * gap + (keys.indexOf(k) - 1.5) * .35; p.root.rotation.y = (j - 1) * .12; scene.add(p.root); const bb = new THREE.Box3().expandByObject(p.meshes[0], true); out.push({ people: k, g: G1.g, h: +(bb.max.y - bb.min.y).toFixed(3) }); }
   cam.fov = 24; cam.aspect = W / H; cam.position.set(0, 1.2, ((n - 1) / 2 * gap + .75) / (Math.tan(12 * Math.PI / 180) * W / H)); cam.lookAt(0, .95, 0); cam.updateProjectionMatrix(); STATS.peoples = out;
 }
-(SP === 'human' ? needPack() : Promise.resolve()).then(() => { if (Q.has('peoples')) { peoplesSheet(); comp.render(); window.__done = true; return; }
+// a people's genome measures the morphed body for its height, so with ?people= it is rolled once the pack is in (Session 826)
+(SP === 'human' ? needPack() : Promise.resolve()).then(() => { if (SP === 'human' && !G) G = rollPerson(Q.get('seed') || 'builder'); if (Q.has('peoples')) { peoplesSheet(); comp.render(); window.__done = true; return; }
   if (Q.has('sheet')) { sheet(); comp.render(); window.__done = true; return; }
   if (SP === 'human') { if (Q.get('dress')) Object.assign(G.dress, JSON.parse(Q.get('dress')));
     if (Q.get('style')) G.hair = { ...(G.hair || {}), style: Q.get('style') }; if (Q.get('len')) G.hair = { ...(G.hair || {}), len: +Q.get('len') }; }
